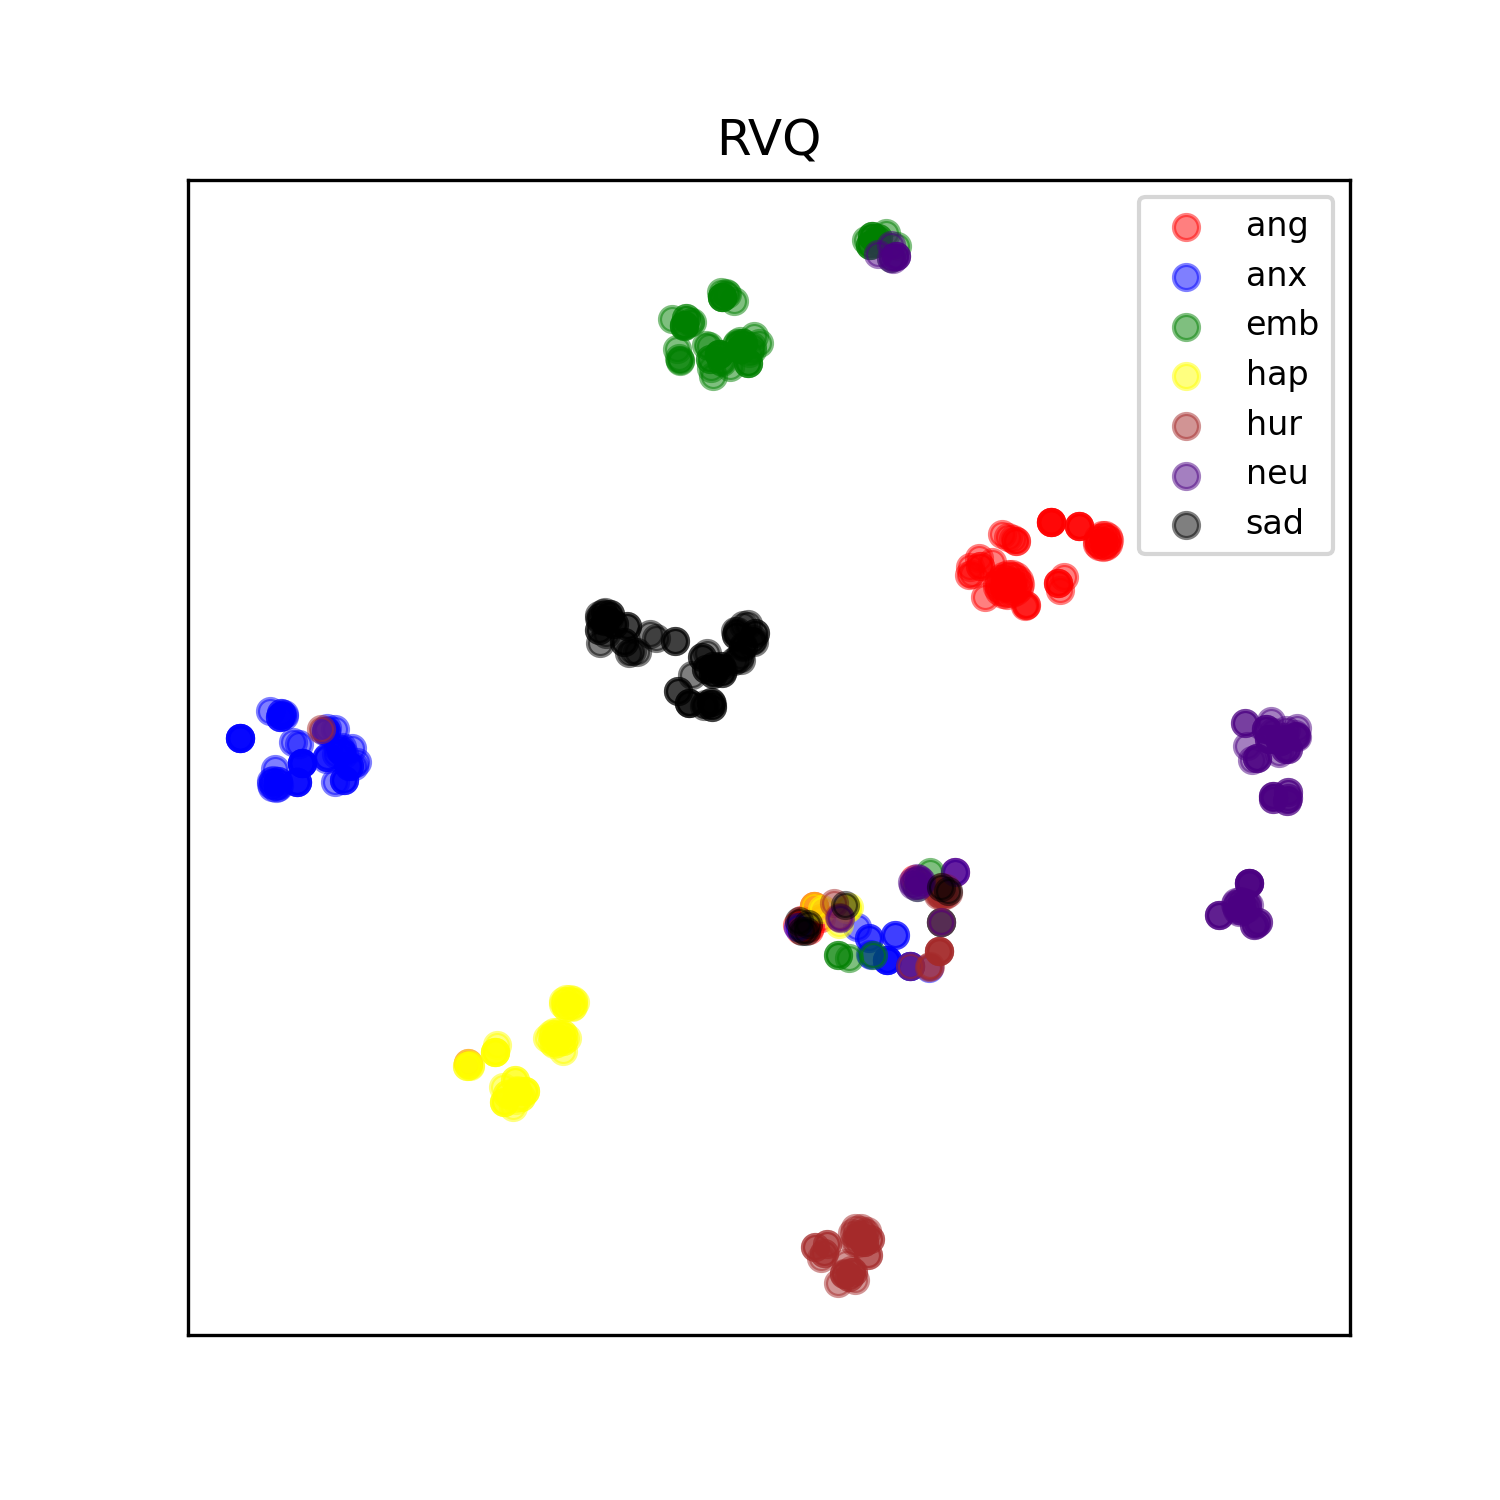
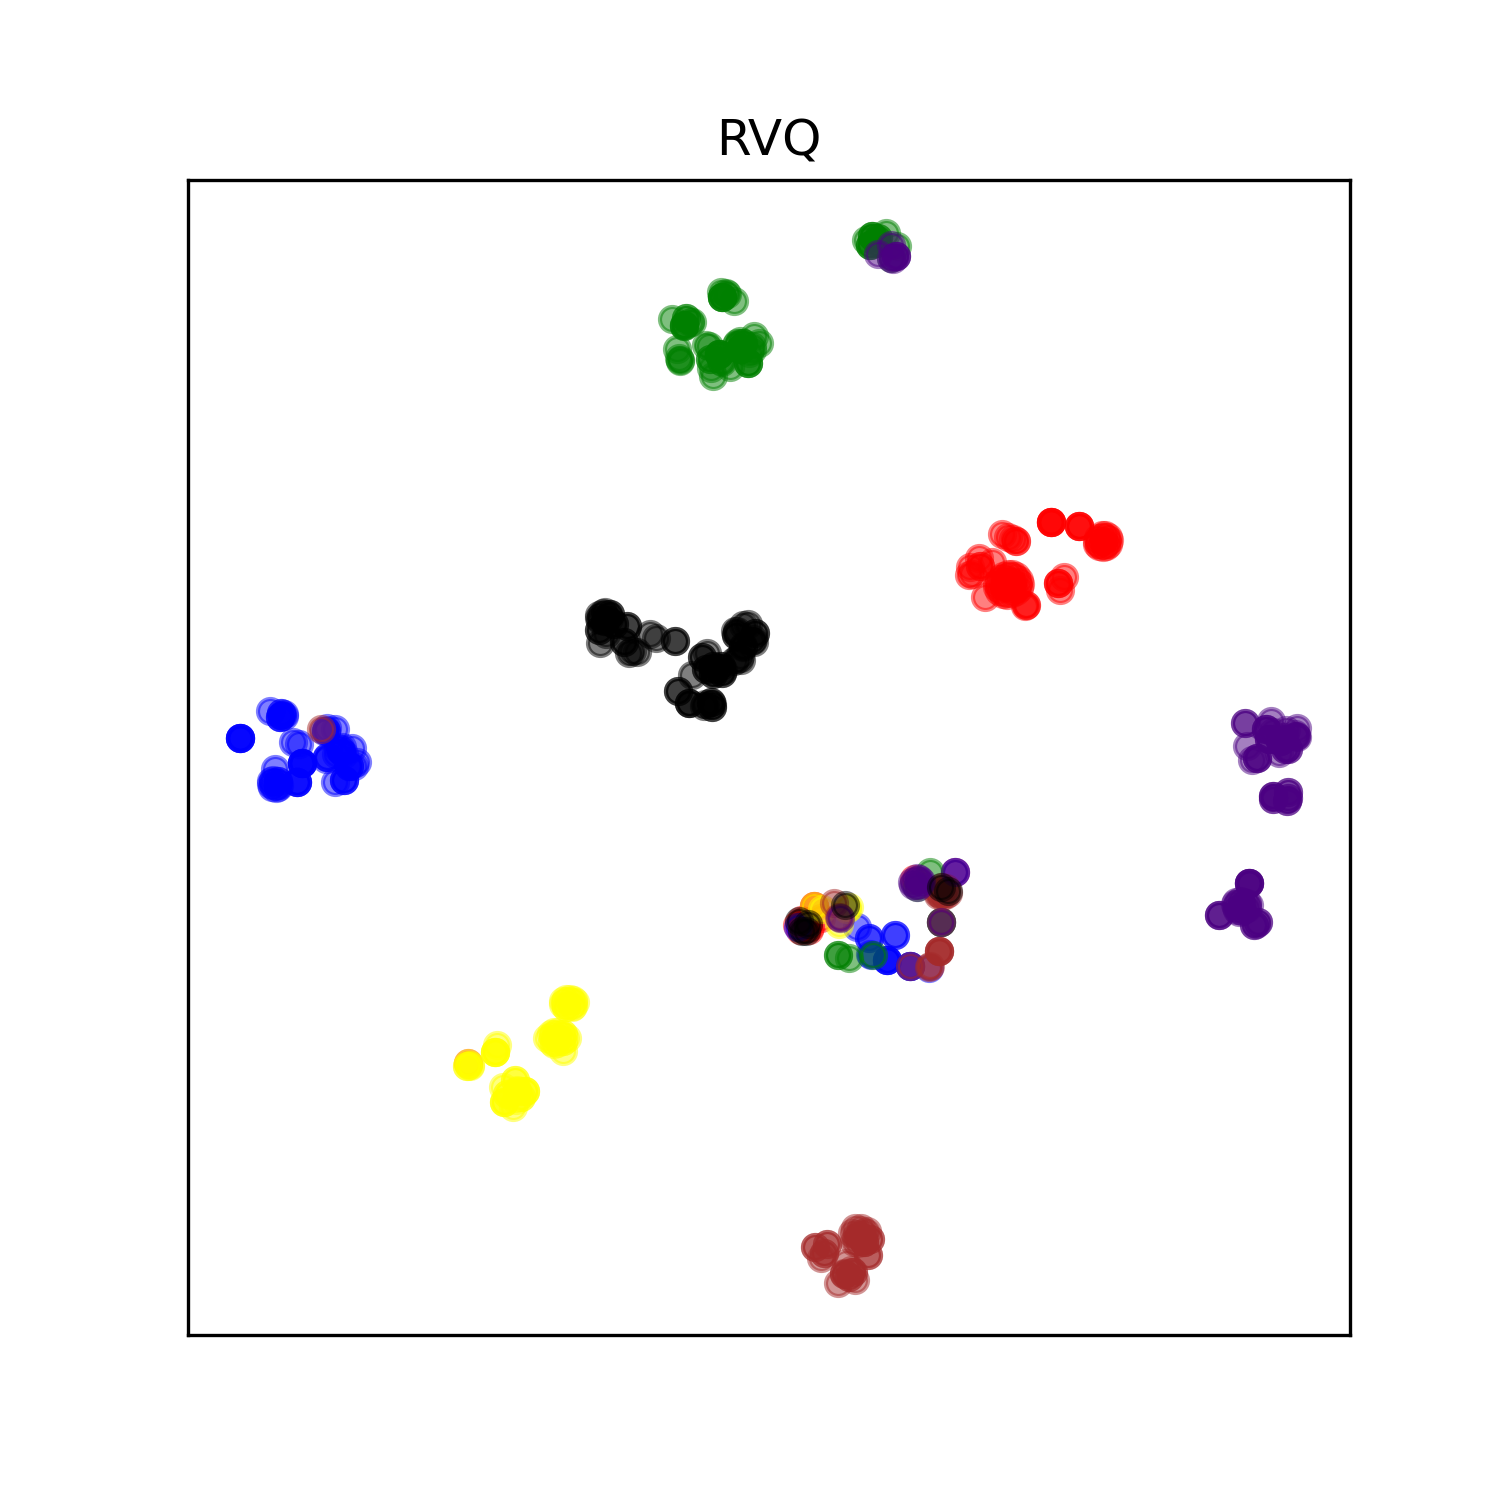
plot

Changed region(s): [[0.7667, 0.1227, 0.8893, 0.368]]

diff --git a/utils/tools.py b/utils/tools.py
@@ -351,7 +351,7 @@ def plot_mel(data, stats, titles):
         axes[i][0].set_anchor("W")
 
         ax1 = add_axis(fig, axes[i][0])
-        ax1.plot(pitch, color="tomato")
+        ax1.plot(pitch, color="tomato", linewidth=1.5)
         ax1.set_xlim(0, mel.shape[1])
         ax1.set_ylim(0, pitch_max)
         ax1.set_ylabel("F0", color="tomato")
@@ -360,7 +360,7 @@ def plot_mel(data, stats, titles):
         )
 
         ax2 = add_axis(fig, axes[i][0])
-        ax2.plot(energy, color="darkviolet")
+        ax2.plot(energy, color="darkviolet", linewidth=1.5)
         ax2.set_xlim(0, mel.shape[1])
         ax2.set_ylim(energy_min, energy_max)
         ax2.set_ylabel("Energy", color="darkviolet")

diff --git a/visualize.py b/visualize.py
@@ -138,7 +138,7 @@ if __name__ == "__main__":
     for idx, (tsne_data, title) in enumerate(zip([tsne_1, tsne_2, tsne_3, tsne_4], ["RVQ", "Emb", "VQ1", "VQ2"])):
         fig, ax = plt.subplots(figsize=(5, 5))
         scatter_tsne(ax, tsne_data, emotions, title)
-        ax.legend(loc='best', fontsize=8)
+        # ax.legend(loc='best', fontsize=8)
         plt.savefig(f'tsne_plot_{idx+1}.png', dpi=300)
         plt.close()
 
